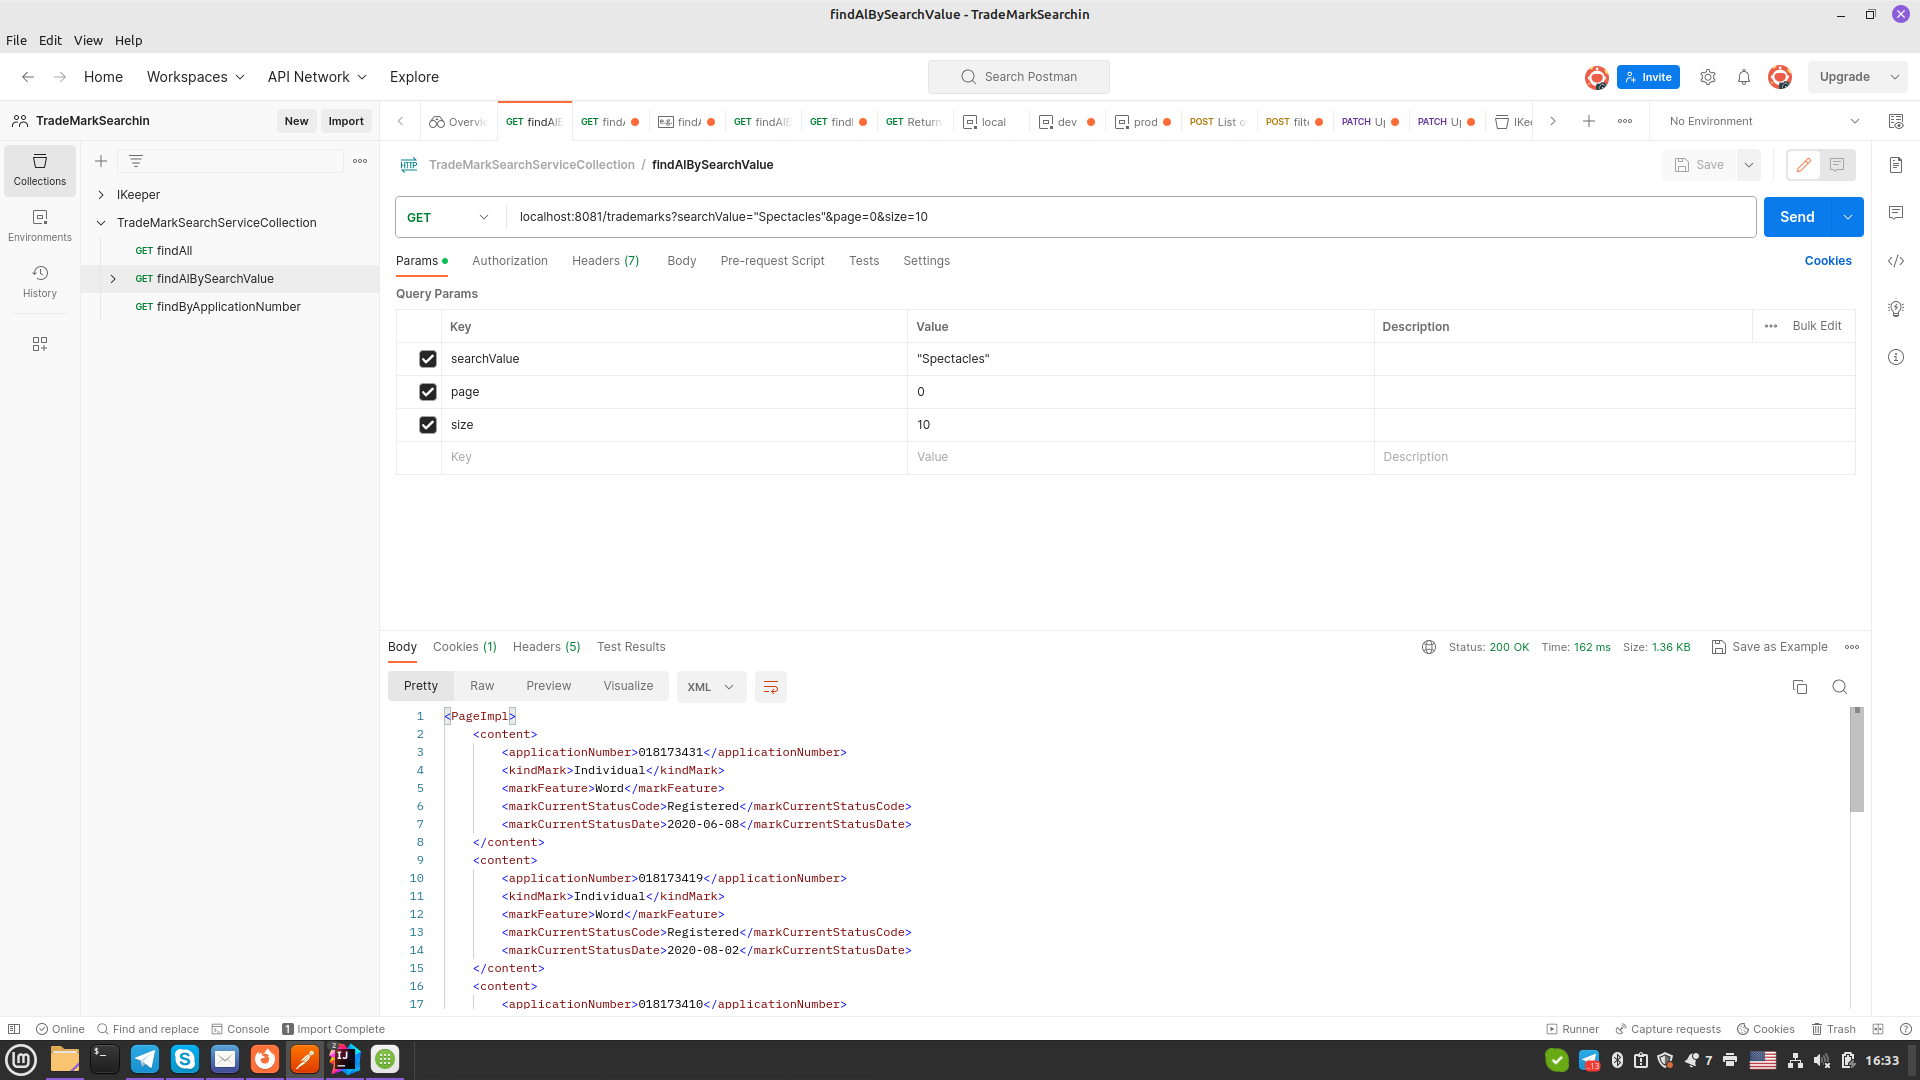
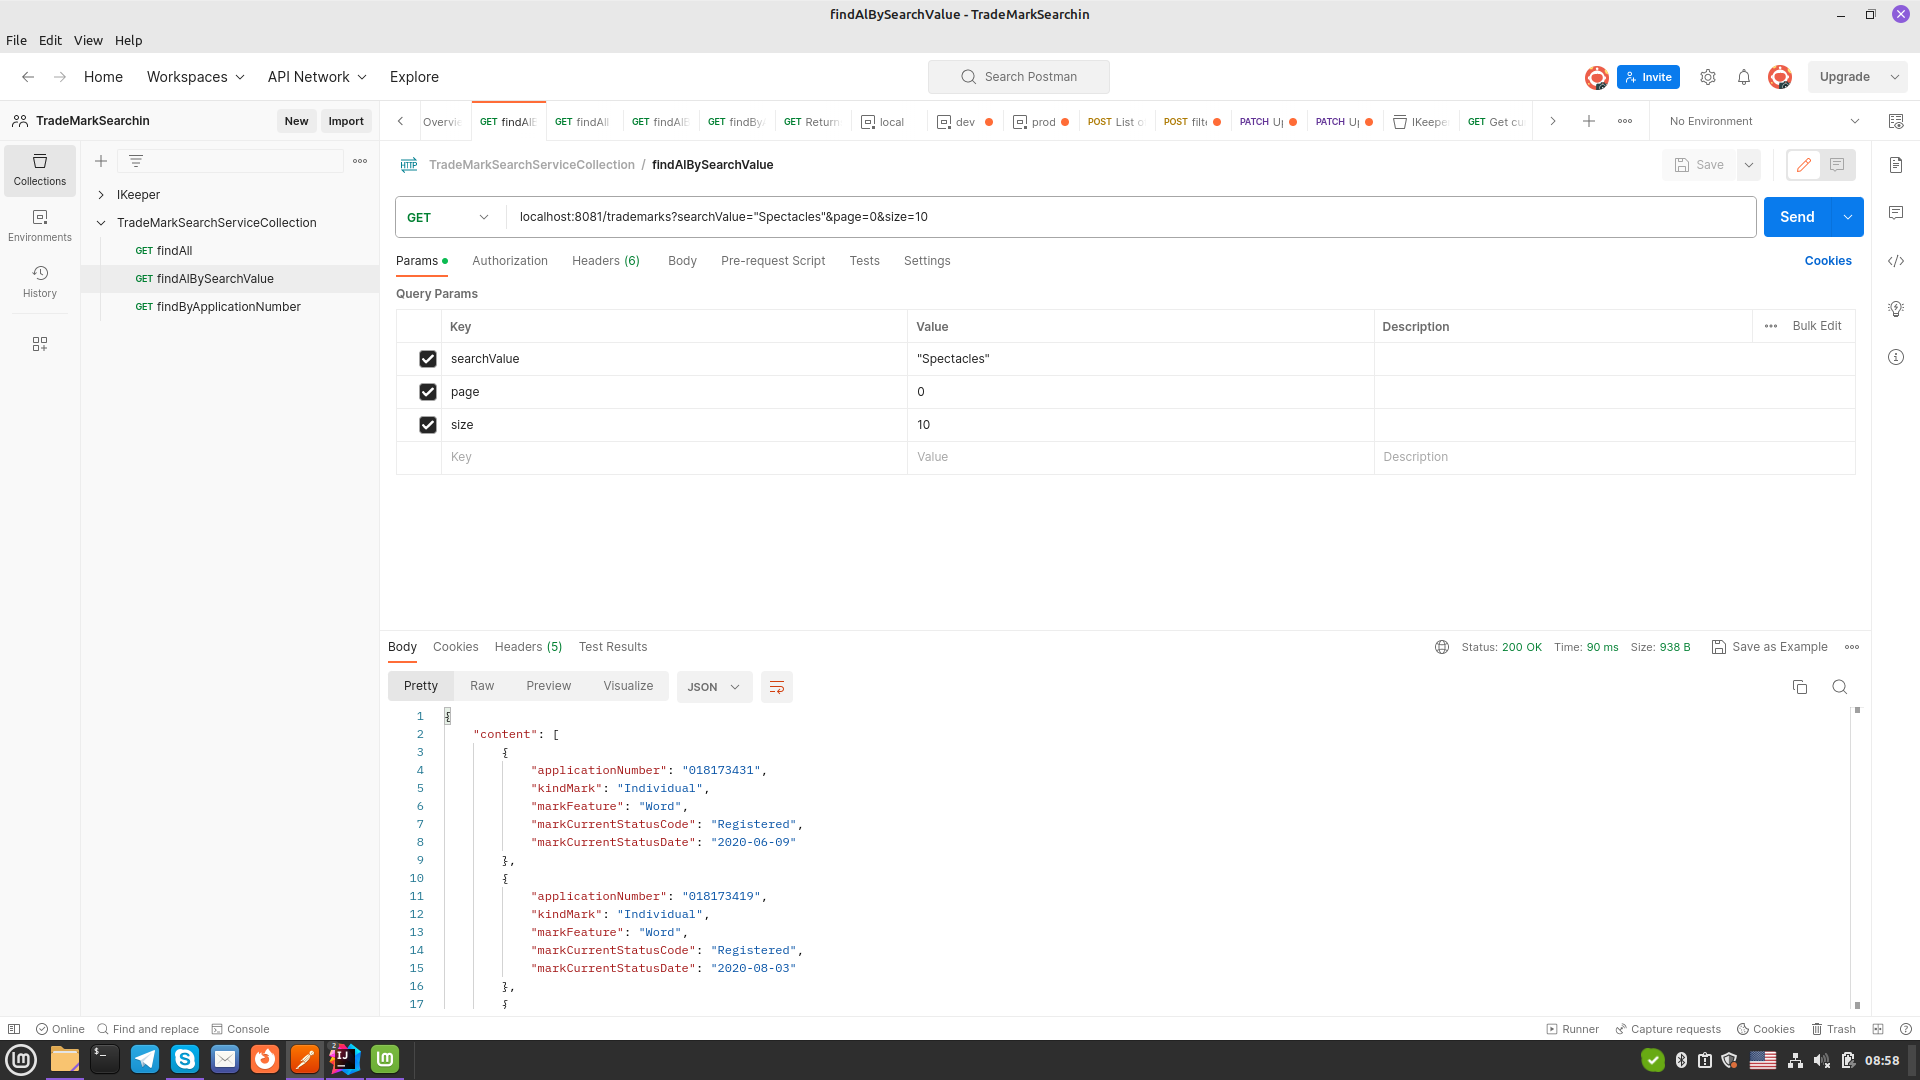
Changed MediaType for swagger, replaced pictures

diff --git a/src/main/java/by/intexsoft/trademarksearchservice/controller/TradeMarkController.java b/src/main/java/by/intexsoft/trademarksearchservice/controller/TradeMarkController.java
@@ -35,7 +35,7 @@ public class TradeMarkController {
     @Operation(summary = "Returns all trademarks or trademarks which are suitable for search value")
     @ApiResponses({
             @ApiResponse(responseCode = RESPONSE_CODE_OK, description = RESPONSE_DESCRIPTION_OK,
-                    content = {@Content(mediaType = MediaType.APPLICATION_XML_VALUE,
+                    content = {@Content(mediaType = MediaType.APPLICATION_JSON_VALUE,
                             schema = @Schema(implementation = TradeMarkDtoOut.class))})
     })
     @GetMapping
@@ -55,7 +55,7 @@ public class TradeMarkController {
                     content = {@Content(mediaType = APPLICATION_JSON,
                             schema = @Schema(implementation = TradeMarkDtoOut.class))}),
             @ApiResponse(responseCode = RESPONSE_CODE_NOT_FOUNDED, description = RESPONSE_DESCRIPTION_NOT_FOUNDED,
-                    content = {@Content(mediaType = MediaType.APPLICATION_XML_VALUE,
+                    content = {@Content(mediaType = MediaType.APPLICATION_JSON_VALUE,
                             schema = @Schema(implementation = TradeMarkSearchApiErrorResponse.class))})
     })
     @GetMapping(value = "/{applicationNumber}")
